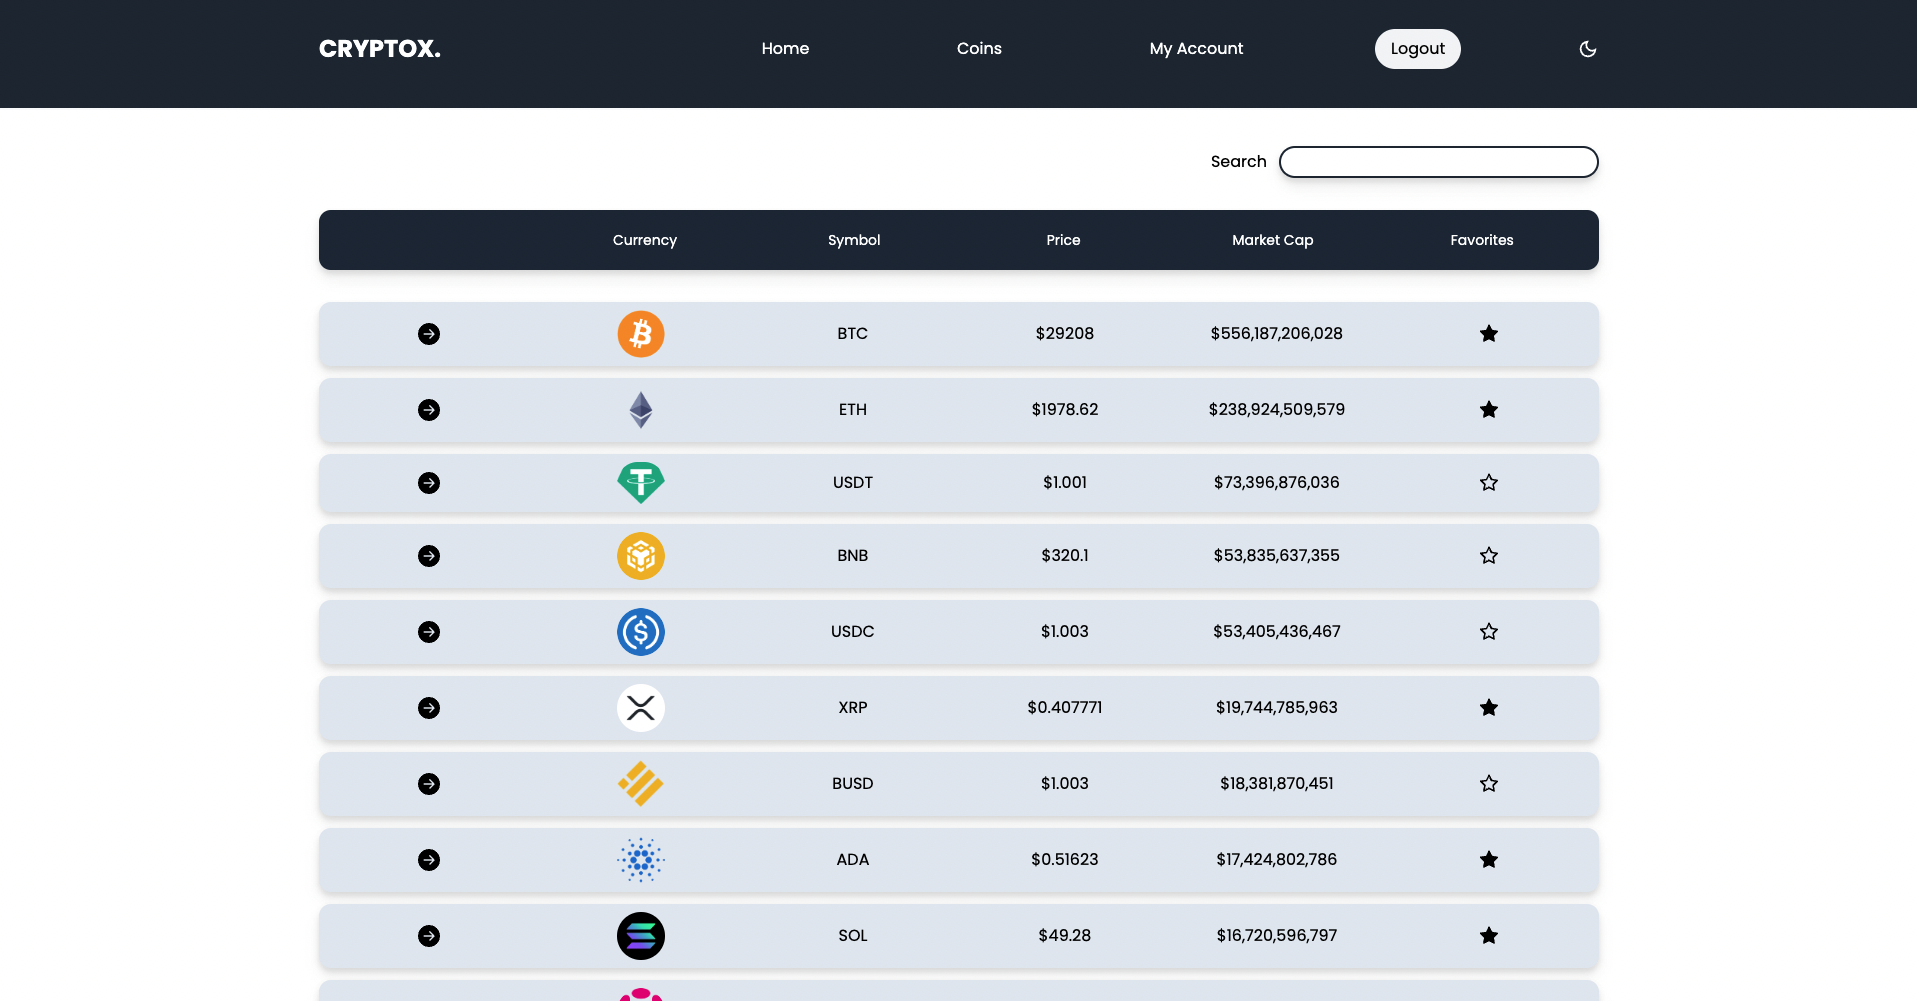
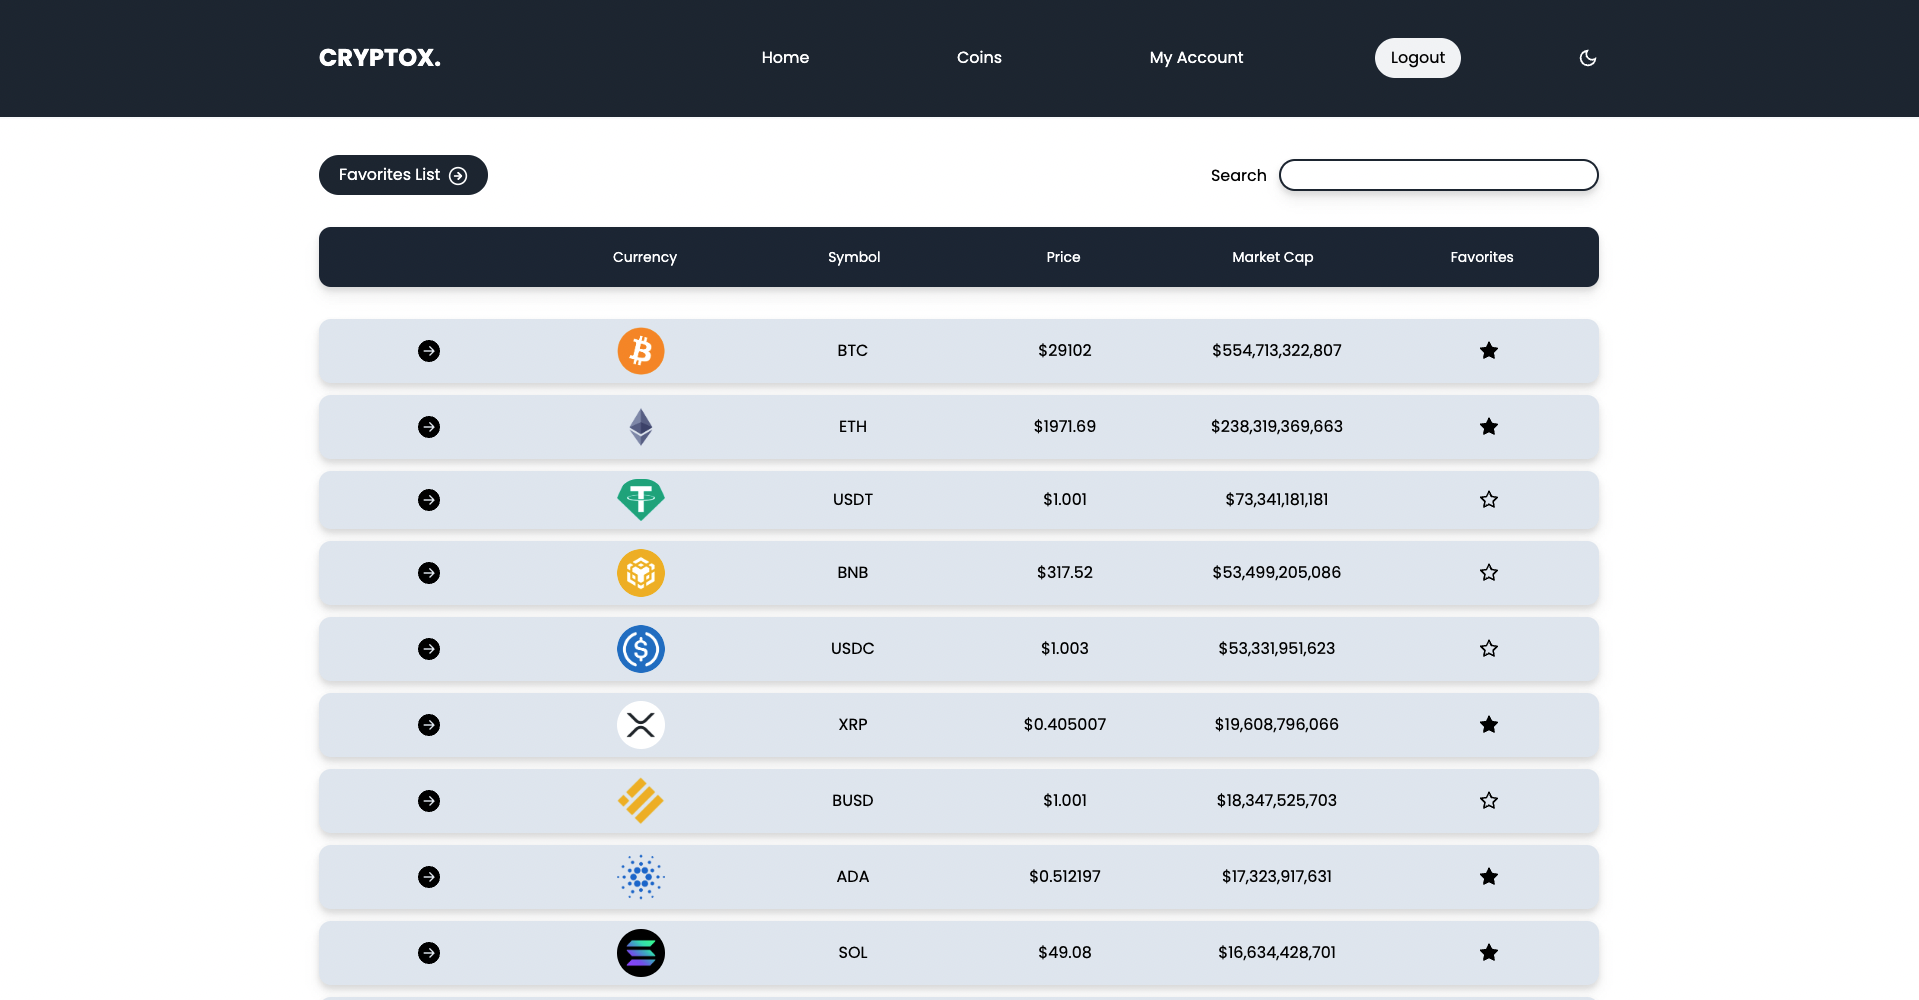
added favorites list button

diff --git a/frontend/src/components/Search.js b/frontend/src/components/Search.js
@@ -1,13 +1,19 @@
 import React, { useEffect } from "react";
+import { useNavigate } from "react-router-dom";
+import { FiArrowRightCircle } from "react-icons/fi";
 import "../styles/styles.css";
 
 const Search = ({ cryptoData, searchValue, setSearchValue, toggleDark }) => {
   const styles = {
-    outerDiv: "w-11/12 max-w-7xl flex justify-end mx-auto items-center my-8",
+    outerDiv: "w-11/12 max-w-7xl flex justify-between mx-auto items-center my-8",
     label: toggleDark ? "text-white" : "",
     input: `w-80 h-8 ml-3 px-3 py-1 drop-shadow-lg rounded-3xl border-2 
       ${toggleDark ? "bg-zinc-800 text-white" : "border-gray-800"}`,
+    favoriteBtn: "bg-gray-800 rounded-3xl text-white py-2 px-5",
+    favIcon: "inline ml-2",
   };
+
+  const navigate = useNavigate();
 
   useEffect(() => {
     setSearchValue("");
@@ -18,19 +24,29 @@ const Search = ({ cryptoData, searchValue, setSearchValue, toggleDark }) => {
     setSearchValue(value);
   };
 
+  const favoritesHandler = () => {
+    navigate("/favorites");
+  };
+
   return (
     <div className={styles.outerDiv}>
-      <label className={styles.label} htmlFor="search">
-        Search
-      </label>
-      <input
-        className={styles.input}
-        id="search"
-        type="text"
-        name="search"
-        value={searchValue}
-        onChange={onChange}
-      />
+      <button className={styles.favoriteBtn} onClick={favoritesHandler}>
+        Favorites List
+        <FiArrowRightCircle fontSize={20} className={styles.favIcon} />
+      </button>
+      <div>
+        <label className={styles.label} htmlFor="search">
+          Search
+        </label>
+        <input
+          className={styles.input}
+          id="search"
+          type="text"
+          name="search"
+          value={searchValue}
+          onChange={onChange}
+        />
+      </div>
     </div>
   );
 };

diff --git a/frontend/src/styles/styles.css b/frontend/src/styles/styles.css
@@ -569,8 +569,16 @@ Ensure the default browser behavior of the `hidden` attribute.
   margin-left: 2.5rem;
 }
 
+.ml-2 {
+  margin-left: 0.5rem;
+}
+
 .block {
   display: block;
+}
+
+.inline-block {
+  display: inline-block;
 }
 
 .inline {
@@ -867,6 +875,10 @@ Ensure the default browser behavior of the `hidden` attribute.
 
 .p-1 {
   padding: 0.25rem;
+}
+
+.p-2 {
+  padding: 0.5rem;
 }
 
 .px-5 {
